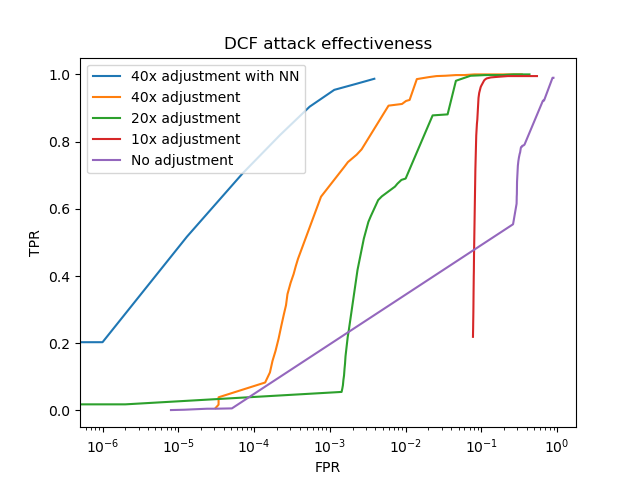
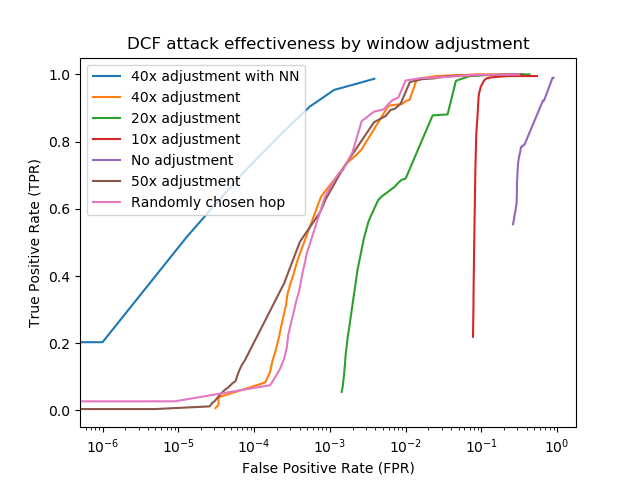
Updated training and testing

diff --git a/pytorch/train.py b/pytorch/train.py
@@ -18,6 +18,18 @@ class TripletLoss(nn.Module):
         loss = F.relu(pos_dist - neg_dist + self.margin)
         return loss.mean()
 
+class CosineTripletLoss(nn.Module):
+    def __init__(self, margin=0.1):
+        super(CosineTripletLoss, self).__init__()
+        self.margin = margin
+        self.cosine_sim = nn.CosineSimilarity(dim=1, eps=1e-6)
+
+    def forward(self, anchor, positive, negative):
+        pos_sim = self.cosine_sim(anchor, positive)
+        neg_sim = self.cosine_sim(anchor, negative)
+        loss = F.relu(neg_sim - pos_sim + self.margin)
+        return loss.mean()
+
 class TripletDataset(Dataset):
     def __init__(self, inflow_data, outflow_data):
         self.inflow_data = inflow_data
@@ -29,44 +41,47 @@ class TripletDataset(Dataset):
         return len(self.inflow_data)
 
     def __getitem__(self, idx):
-        # Select the window randomly
-        window_idx = random.randint(0, self.inflow_data.shape[1]-1)
+        while True:
+            # Select the window randomly
+            window_idx = random.randint(0, self.inflow_data.shape[1]-1)
 
-        cutoff = self.inflow_data.shape[0] // 2
-        if self.positive_top:
-            # anchor, positive from this half of data
-            idx = idx % cutoff
+            cutoff = self.inflow_data.shape[0] // 2
+            if self.positive_top:
+                # anchor, positive from this half of data
+                idx = idx % cutoff
 
-            # negative from the other half
-            negative_idx = random.choice([j for j in range(len(self.outflow_data)) if (j != idx and j > cutoff)])
-        else:
-            idx = cutoff + (idx % cutoff)
-            negative_idx = random.choice([j for j in range(len(self.outflow_data)) if (j != idx and j < cutoff)])
+                # negative from the other half
+                negative_idx = random.choice([j for j in range(len(self.outflow_data)) if (j != idx and j > cutoff)])
+            else:
+                idx = cutoff + (idx % cutoff)
+                negative_idx = random.choice([j for j in range(len(self.outflow_data)) if (j != idx and j < cutoff)])
 
 
-        anchor = self.inflow_data[idx, window_idx]
-        positive = self.outflow_data[idx, window_idx]
+            anchor = self.inflow_data[idx, window_idx]
+            positive = self.outflow_data[idx, window_idx]
 
-        # Select a random negative example
-        negative = self.outflow_data[negative_idx, window_idx]
+            # Select a random negative example
+            negative = self.outflow_data[negative_idx, window_idx]
+            
+            # Skip examples where positive and negative are both all zeros
+            if np.count_nonzero(positive) != 0 or np.count_nonzero(negative) != 0:
+                break
 
         return anchor, positive, negative
 
     def reset_split(self):
-        # switch which half anchor and positive are being sampled from (to prevent the same example from being both positive and negative in the same epoch
-        if self.positive_top:
-            self.positive_top = False
-        else:
-            self.positive_top = True
+        # switch which half anchor and positive are being sampled from (to prevent the same example from being both positive and negative in the same epoch)
+        self.positive_top = not self.positive_top
+
 
 # Load the numpy arrays
 train_inflows = np.load('train_inflows.npy')
 val_inflows = np.load('val_inflows.npy')
-test_inflows = np.load('test_inflows.npy')
+#test_inflows = np.load('test_inflows.npy')
 
 train_outflows = np.load('train_outflows.npy')
 val_outflows = np.load('val_outflows.npy')
-test_outflows = np.load('test_outflows.npy')
+#test_outflows = np.load('test_outflows.npy')
 
 # Define the datasets
 train_dataset = TripletDataset(train_inflows, train_outflows)
@@ -88,12 +103,12 @@ inflow_model.to(device)
 outflow_model.to(device)
 
 # Define the loss function and the optimizer
-criterion = TripletLoss()
-optimizer = optim.Adam(list(inflow_model.parameters()) + list(outflow_model.parameters()), lr=0.0001, weight_decay=1e-2)
+criterion = CosineTripletLoss()
+optimizer = optim.Adam(list(inflow_model.parameters()) + list(outflow_model.parameters()), lr=0.0001, weight_decay=1e-3)
 
 # Training loop
 best_val_loss = float("inf")
-num_epochs = 500
+num_epochs = 200
 for epoch in range(num_epochs):
     train_dataset.reset_split()
     val_dataset.reset_split()
@@ -161,5 +176,5 @@ for epoch in range(num_epochs):
             'outflow_model_state_dict': outflow_model.state_dict(),
             'optimizer_state_dict': optimizer.state_dict(),
             'best_val_loss': best_val_loss,
-        }, 'best_model.pth')
+        }, 'best_model_cosine.pth')
 

diff --git a/pytorch/test.py b/pytorch/test.py
@@ -11,7 +11,7 @@ inflow_model = Embedder(embedding_size)
 outflow_model = Embedder(embedding_size)
 
 # Load the best models
-checkpoint = torch.load('best_model.pth')
+checkpoint = torch.load('best_model_cosine.pth')
 inflow_model.load_state_dict(checkpoint['inflow_model_state_dict'])
 outflow_model.load_state_dict(checkpoint['outflow_model_state_dict'])
 
@@ -25,8 +25,10 @@ inflow_model.eval()
 outflow_model.eval()
 
 # Load the numpy arrays
-test_inflows = np.load('test_inflows.npy')
-test_outflows = np.load('test_outflows.npy')
+val_inflows = np.load('val_inflows.npy')
+val_outflows = np.load('val_outflows.npy')
+
+print(len(val_inflows))
 
 import torch.nn.functional as F
 
@@ -59,28 +61,36 @@ def compute_distances(inflow_trace, outflow_trace, inflow_model, outflow_model):
 
     return euclidean_distances
 
-print(compute_distances(test_inflows[0], test_outflows[0], inflow_model, outflow_model))
+from sklearn.model_selection import train_test_split
 
-import numpy as np
+# Split the original validation set into a new validation set and a test set
+val_inflows, test_inflows, val_outflows, test_outflows = train_test_split(val_inflows, val_outflows, test_size=0.5, random_state=42)
 
-# Prepare an empty numpy array
-output_array = np.zeros((len(test_inflows) * len(test_outflows), 11))
+# Initialize two empty numpy arrays for the new validation set and the test set
+val_output_array = np.zeros((len(val_inflows) * len(val_outflows), 11))
+test_output_array = np.zeros((len(test_inflows) * len(test_outflows), 11))
+print(len(val_output_array))
+print(len(test_output_array))
 
-# Iterate over all possible combinations of inflow and outflow traces
-for i in range(len(test_inflows)):
-    print(i)
-    for j in range(len(test_outflows)):
-        # Compute the distances
-        distances = compute_distances(test_inflows[i], test_outflows[j], inflow_model, outflow_model)
-
-        # Check if the inflow and outflow are a match (i.e., they have the same index)
+# Generate combinations for the new validation set
+for i in range(len(val_inflows)):
+    print(f"Processing validation set, trace {i+1}/{len(val_inflows)}")
+    for j in range(len(val_outflows)):
+        distances = compute_distances(val_inflows[i], val_outflows[j], inflow_model, outflow_model)
         match = int(i == j)
+        val_output_array[i * len(val_outflows) + j, :10] = distances
+        val_output_array[i * len(val_outflows) + j, 10] = match
 
-        # Store the distances and the match status in the numpy array
-        output_array[i * len(test_outflows) + j, :10] = distances
-        output_array[i * len(test_outflows) + j, 10] = match
+# Generate combinations for the test set
+for i in range(len(test_inflows)):
+    print(f"Processing test set, trace {i+1}/{len(test_inflows)}")
+    for j in range(len(test_outflows)):
+        distances = compute_distances(test_inflows[i], test_outflows[j], inflow_model, outflow_model)
+        match = int(i == j)
+        test_output_array[i * len(test_outflows) + j, :10] = distances
+        test_output_array[i * len(test_outflows) + j, 10] = match
 
-print(distances[0])
-# Save the numpy array to a file
-np.save('distances.npy', output_array)
+# Save the numpy arrays to files
+np.save('val_distances.npy', val_output_array)
+np.save('test_distances.npy', test_output_array)
 

diff --git a/data_analysis.py b/data_analysis.py
@@ -1,0 +1,80 @@
+import matplotlib.pyplot as plt
+
+mult_40_tpr = []
+mult_40_fpr = []
+for line in open("capture_results/capture_mult_40.csv", "r"):
+    _, tpr, fpr, _ = line.split(',')
+    mult_40_tpr.append(float(tpr))
+    mult_40_fpr.append(float(fpr))
+
+mult_20_tpr = []
+mult_20_fpr = []
+for line in open("capture_results/capture_mult_20.csv", "r"):
+    _, tpr, fpr, _ = line.split(',')
+    mult_20_tpr.append(float(tpr))
+    mult_20_fpr.append(float(fpr))
+
+mult_20_fpr = mult_20_fpr[:-4]
+mult_20_tpr = mult_20_tpr[:-4]
+
+mult_10_tpr = []
+mult_10_fpr = []
+for line in open("capture_results/capture_mult_10.csv", "r"):
+    _, tpr, fpr, _ = line.split(',')
+    mult_10_tpr.append(float(tpr))
+    mult_10_fpr.append(float(fpr))
+
+
+mult_1_tpr = []
+mult_1_fpr = []
+for line in open("capture_results/capture_mult_1.csv", "r"):
+    _, tpr, fpr, _ = line.split(',')
+    mult_1_tpr.append(float(tpr))
+    mult_1_fpr.append(float(fpr))
+
+mult_1_tpr = mult_1_tpr[:-6]
+mult_1_fpr = mult_1_fpr[:-6]
+
+plt.title("DCF attack effectiveness by window adjustment")
+
+nn_fpr = [0.003871871871871872, 0.002242242242242242, 0.0011461461461461462, 0.0005425425425425425, 0.0002192192192192192, 7.107107107107108e-05, 1.3013013013013012e-05, 1.001001001001001e-06, 0.0, 0.0, 0.0, 0.0, 0.0, 0.0, 0.0, 0.0, 0.0, 0.0, 0.0, 0.0]
+nn_tpr = [0.987, 0.972, 0.954, 0.904, 0.819, 0.706, 0.517, 0.203, 0.003, 0.0, 0.0, 0.0, 0.0, 0.0, 0.0, 0.0, 0.0, 0.0, 0.0, 0.0]
+
+mult_50_tpr = []
+mult_50_fpr = []
+for line in open("capture_results/capture_mult_50.csv", "r"):
+    _, tpr, fpr, _ = line.split(',')
+    mult_50_tpr.append(float(tpr))
+    mult_50_fpr.append(float(fpr))
+
+mult_random_tpr = []
+mult_random_fpr = []
+for line in open("capture_results/capture_mult_random.csv", "r"):
+    _, tpr, fpr, _ = line.split(',')
+    mult_random_tpr.append(float(tpr))
+    mult_random_fpr.append(float(fpr))
+
+
+plt.plot(nn_fpr, nn_tpr, label='40x adjustment with NN')
+plt.plot(mult_40_fpr, mult_40_tpr, label='40x adjustment')
+plt.plot(mult_20_fpr, mult_20_tpr, label='20x adjustment')
+plt.plot(mult_10_fpr, mult_10_tpr, label='10x adjustment')
+plt.plot(mult_1_fpr, mult_1_tpr, label='No adjustment')
+plt.plot(mult_50_fpr, mult_50_tpr, label='50x adjustment')
+plt.plot(mult_random_fpr, mult_random_tpr, label='Randomly chosen hop')
+
+#plt.plot(double_front_epoch_500_fpr, double_front_epoch_500_tpr, label='Double Front')
+
+
+plt.xscale('log')
+
+plt.ylabel("True Positive Rate (TPR)")
+plt.xlabel("False Positive Rate (FPR)")
+
+plt.legend()
+
+plt.savefig("capture_chart.png")
+
+
+
+

diff --git a/pytorch/preprocessing.py b/pytorch/preprocessing.py
@@ -60,23 +60,23 @@ outflow_data = process_directory(outflow_directory)
 
 # Generate indices for splits
 indices = list(range(len(inflow_data)))
-train_indices, test_indices = train_test_split(indices, test_size=0.1)
-train_indices, val_indices = train_test_split(train_indices, test_size=0.1)
+#train_indices, test_indices = train_test_split(indices, test_size=0.1)
+train_indices, val_indices = train_test_split(indices, test_size=0.25)
 
 # Split inflow_data and outflow_data using the same indices
 train_inflows = inflow_data[train_indices]
 val_inflows = inflow_data[val_indices]
-test_inflows = inflow_data[test_indices]
+#test_inflows = inflow_data[test_indices]
 
 train_outflows = outflow_data[train_indices]
 val_outflows = outflow_data[val_indices]
-test_outflows = outflow_data[test_indices]
+#test_outflows = outflow_data[test_indices]
 
 # Save the numpy arrays for later use
 np.save('train_inflows.npy', train_inflows)
 np.save('val_inflows.npy', val_inflows)
-np.save('test_inflows.npy', test_inflows)
+#np.save('test_inflows.npy', test_inflows)
 
 np.save('train_outflows.npy', train_outflows)
 np.save('val_outflows.npy', val_outflows)
-np.save('test_outflows.npy', test_outflows)
+#np.save('test_outflows.npy', test_outflows)
